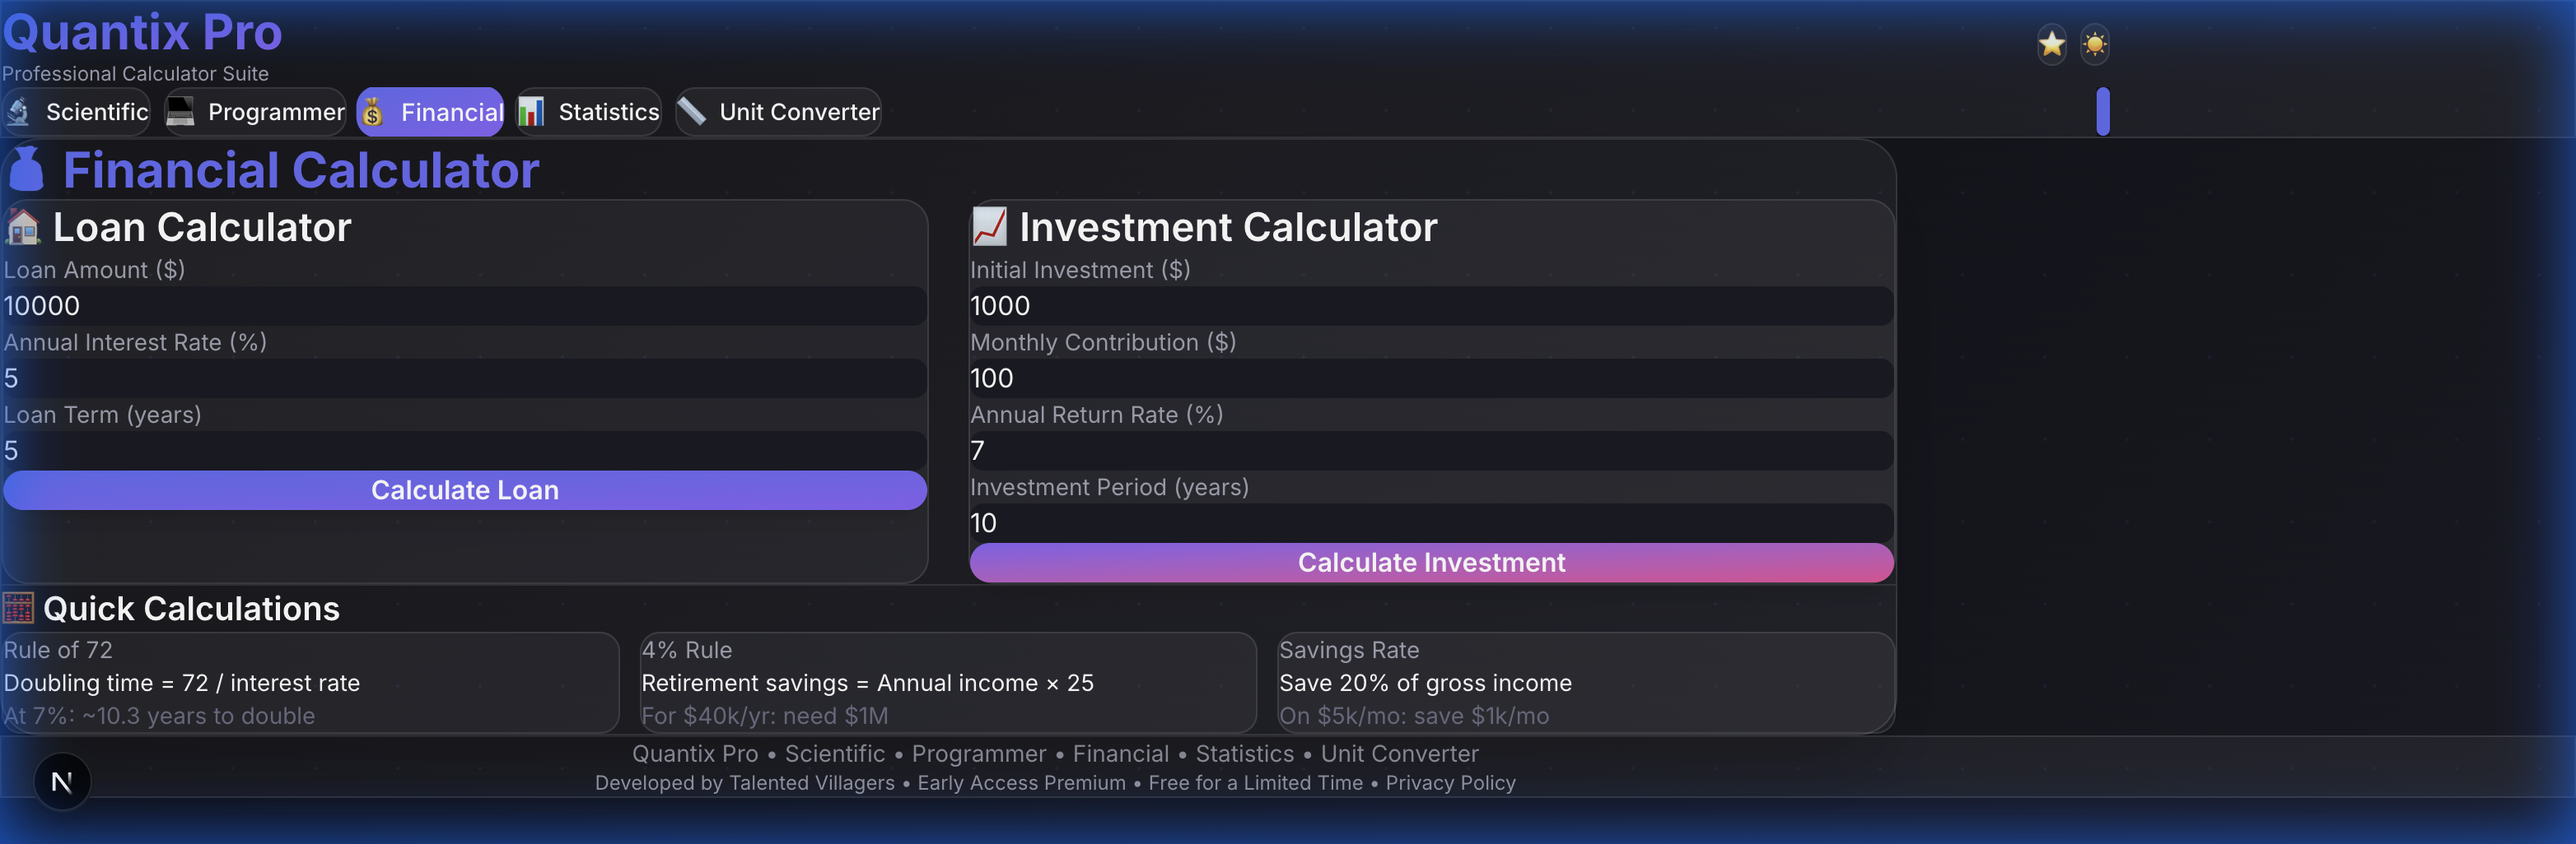
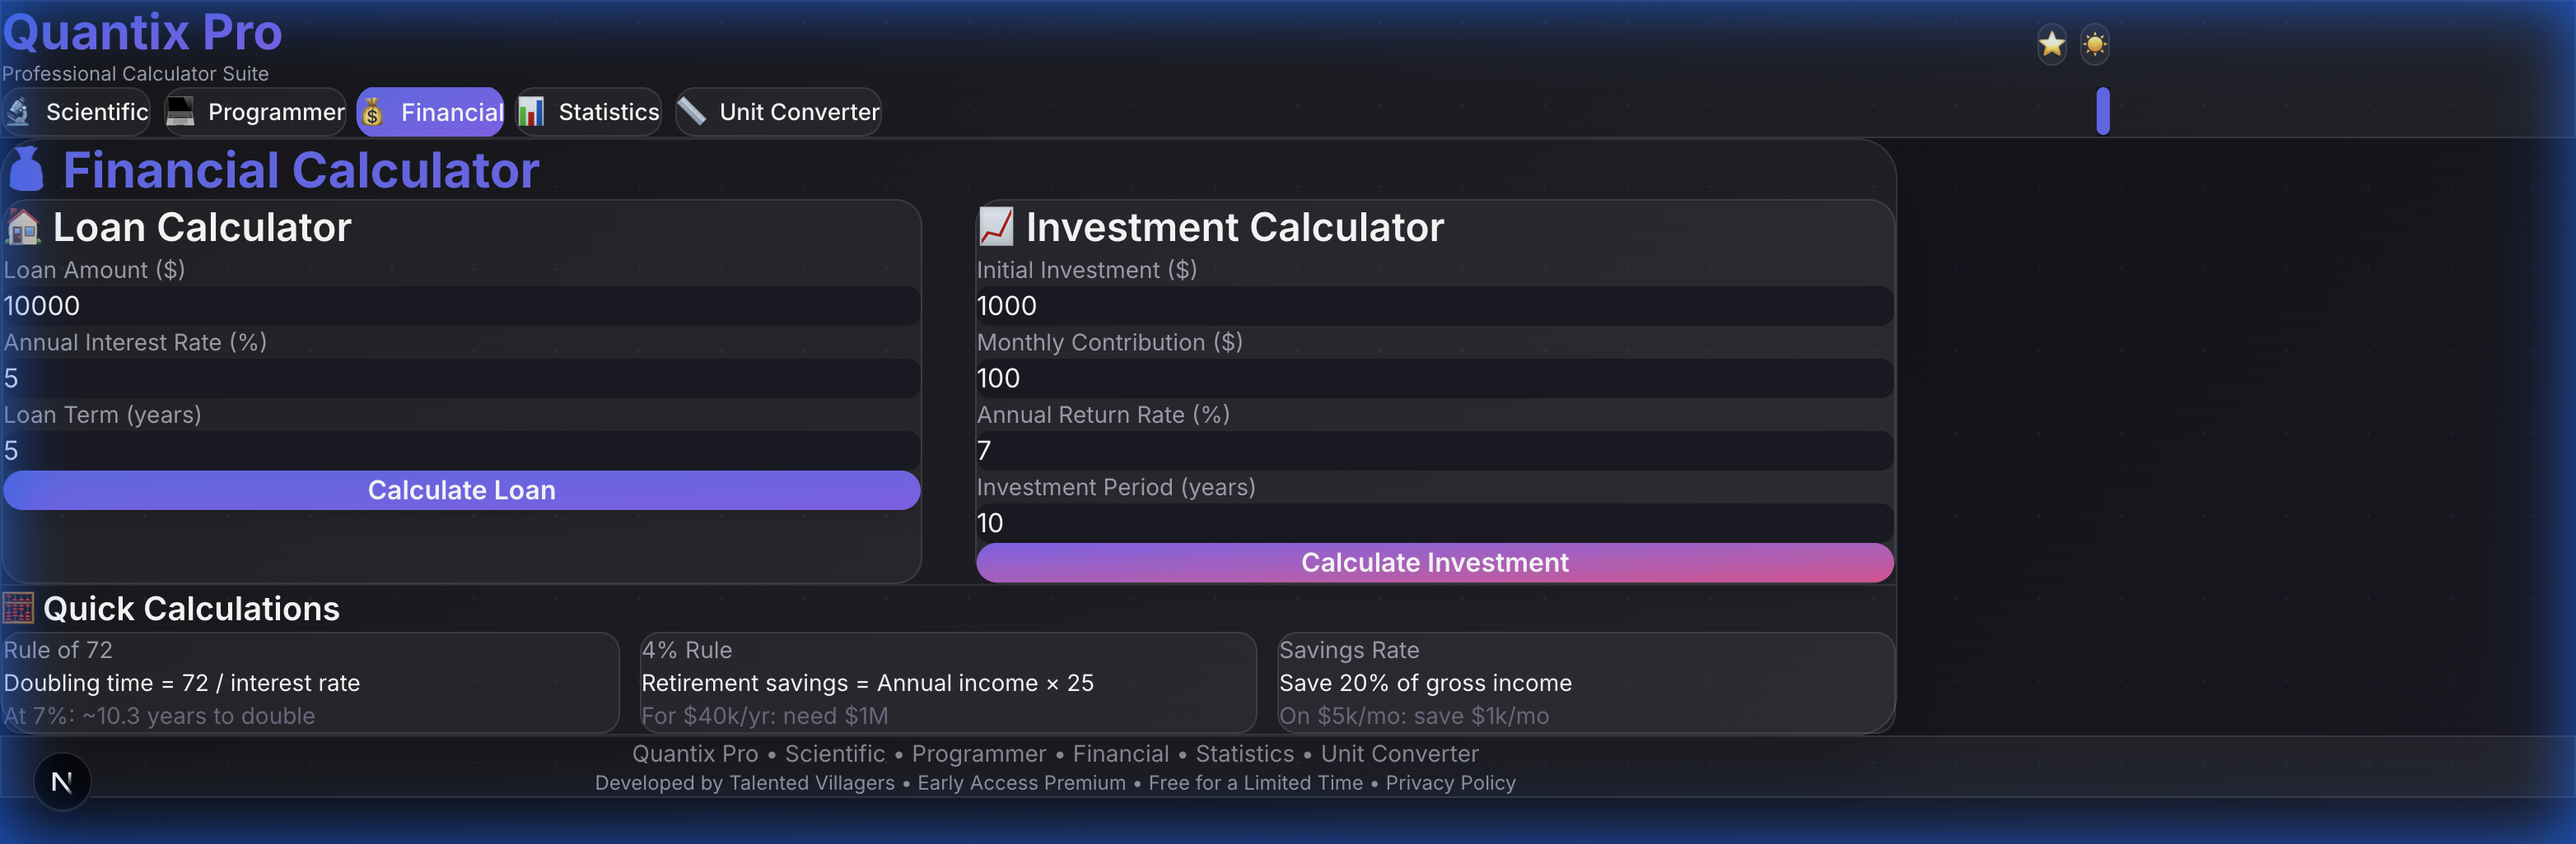
Enhance UI with increased padding and improved spacing for polished, premium look

diff --git a/components/ProgrammerCalculator.js b/components/ProgrammerCalculator.js
@@ -129,19 +129,19 @@ export default function ProgrammerCalculator() {
     const multiBase = getMultiBaseDisplay();
 
     return (
-        <div className="max-w-4xl mx-auto p-6">
-            <div className="glass rounded-3xl p-6 shadow-2xl animate-in">
+        <div className="max-w-4xl mx-auto p-8">
+            <div className="glass rounded-3xl p-8 shadow-2xl animate-in">
                 <h2 className="text-3xl font-bold gradient-text mb-6">💻 Programmer Calculator</h2>
 
                 {/* Mode Selector */}
-                <div className="grid grid-cols-4 gap-2 mb-6">
+                <div className="grid grid-cols-4 gap-3 mb-8">
                     {['DEC', 'HEX', 'BIN', 'OCT'].map(m => (
                         <button
                             key={m}
                             onClick={() => handleModeChange(m)}
                             className={`py-3 rounded-xl font-semibold transition-all ${mode === m
-                                    ? 'bg-gradient-to-br from-[#6366f1] to-[#8b5cf6] text-white shadow-lg'
-                                    : 'glass hover:bg-[var(--btn-number)]'
+                                ? 'bg-gradient-to-br from-[#6366f1] to-[#8b5cf6] text-white shadow-lg'
+                                : 'glass hover:bg-[var(--btn-number)]'
                                 }`}
                         >
                             {m}
@@ -150,7 +150,7 @@ export default function ProgrammerCalculator() {
                 </div>
 
                 {/* Multi-Base Display */}
-                <div className="glass rounded-2xl p-6 mb-6 space-y-3">
+                <div className="glass rounded-2xl p-6 mb-8 space-y-3">
                     <div className="text-right">
                         <div className="text-sm text-[var(--text-secondary)]">
                             {previousValue !== null && operation && `${previousValue} ${operation}`}
@@ -181,7 +181,7 @@ export default function ProgrammerCalculator() {
                 </div>
 
                 {/* Buttons */}
-                <div className="grid grid-cols-5 gap-2">
+                <div className="grid grid-cols-5 gap-3">
                     {/* Row 1: Bitwise Operations */}
                     <Button variant="function" onClick={() => handleOperation('AND')}>AND</Button>
                     <Button variant="function" onClick={() => handleOperation('OR')}>OR</Button>

diff --git a/components/Calculator.js b/components/Calculator.js
@@ -270,10 +270,10 @@ export default function Calculator() {
     }, [handleNumber, handleDecimal, handleOperation, handleEquals, handleBackspace, handlePercent]);
 
     return (
-        <div className="min-h-screen flex items-center justify-center p-4 relative z-10">
-            <div className="max-w-6xl w-full grid grid-cols-1 lg:grid-cols-3 gap-6">
+        <div className="min-h-screen flex items-center justify-center p-4 lg:p-8 relative z-10">
+            <div className="max-w-6xl w-full grid grid-cols-1 lg:grid-cols-3 gap-8">
                 {/* Main Calculator */}
-                <div className="lg:col-span-2 glass rounded-3xl p-6 shadow-2xl animate-in">
+                <div className="lg:col-span-2 glass rounded-3xl p-8 shadow-2xl animate-in">
                     {/* Header */}
                     <div className="mb-6 flex items-center justify-between">
                         <h1 className="text-3xl font-bold gradient-text">Scientific Calculator</h1>
@@ -315,7 +315,7 @@ export default function Calculator() {
                     )}
 
                     {/* Main Buttons Grid */}
-                    <div className="grid grid-cols-5 gap-3">
+                    <div className="grid grid-cols-5 gap-4">
                         {/* Row 1: Memory & Clear */}
                         <Button variant="function" onClick={handleMemoryClear}>MC</Button>
                         <Button variant="function" onClick={handleMemoryRecall}>MR</Button>
@@ -386,7 +386,7 @@ export default function Calculator() {
                 </div>
 
                 {/* History Panel */}
-                <div className="glass rounded-3xl p-6 shadow-2xl animate-in lg:block" style={{ animationDelay: '0.1s' }}>
+                <div className="glass rounded-3xl p-8 shadow-2xl animate-in lg:block" style={{ animationDelay: '0.1s' }}>
                     <h2 className="text-2xl font-bold gradient-text mb-4">History</h2>
                     <div className="space-y-2 max-h-[600px] overflow-y-auto">
                         {history.length === 0 ? (

diff --git a/components/FinancialCalculator.js b/components/FinancialCalculator.js
@@ -113,13 +113,13 @@ export default function FinancialCalculator() {
     };
 
     return (
-        <div className="max-w-6xl mx-auto p-6">
-            <div className="glass rounded-3xl p-6 shadow-2xl animate-in">
-                <h2 className="text-3xl font-bold gradient-text mb-6">💰 Financial Calculator</h2>
+        <div className="max-w-6xl mx-auto p-8">
+            <div className="glass rounded-3xl p-8 shadow-2xl animate-in">
+                <h2 className="text-3xl font-bold gradient-text mb-8">💰 Financial Calculator</h2>
 
-                <div className="grid lg:grid-cols-2 gap-6">
+                <div className="grid lg:grid-cols-2 gap-8">
                     {/* Loan Calculator */}
-                    <div className="glass rounded-2xl p-6">
+                    <div className="glass rounded-2xl p-8">
                         <h3 className="text-2xl font-semibold mb-4">🏠 Loan Calculator</h3>
 
                         <div className="space-y-4">
@@ -208,7 +208,7 @@ export default function FinancialCalculator() {
                     </div>
 
                     {/* Investment Calculator */}
-                    <div className="glass rounded-2xl p-6">
+                    <div className="glass rounded-2xl p-8">
                         <h3 className="text-2xl font-semibold mb-4">📈 Investment Calculator</h3>
 
                         <div className="space-y-4">

diff --git a/components/StatisticsCalculator.js b/components/StatisticsCalculator.js
@@ -125,12 +125,12 @@ export default function StatisticsCalculator() {
     );
 
     return (
-        <div className="max-w-6xl mx-auto p-6">
-            <div className="glass rounded-3xl p-6 shadow-2xl animate-in">
-                <h2 className="text-3xl font-bold gradient-text mb-6">📊 Statistics Calculator</h2>
+        <div className="max-w-6xl mx-auto p-8">
+            <div className="glass rounded-3xl p-8 shadow-2xl animate-in">
+                <h2 className="text-3xl font-bold gradient-text mb-8">📊 Statistics Calculator</h2>
 
                 {/* Data Input */}
-                <div className="mb-6">
+                <div className="mb-8">
                     <h3 className="text-xl font-semibold mb-3">Enter Data</h3>
                     <div className="glass rounded-2xl p-4">
                         <label className="block text-sm text-[var(--text-secondary)] mb-2">
@@ -153,7 +153,7 @@ export default function StatisticsCalculator() {
 
                 {/* Results */}
                 {results && (
-                    <div className="space-y-6 mb-6">
+                    <div className="space-y-6 mb-8">
                         <h3 className="text-xl font-semibold">Results</h3>
 
                         {/* Basic Stats */}

diff --git a/components/UnitConverter.js b/components/UnitConverter.js
@@ -264,12 +264,12 @@ export default function UnitConverter() {
     };
 
     return (
-        <div className="max-w-4xl mx-auto p-6">
-            <div className="glass rounded-3xl p-6 shadow-2xl animate-in">
-                <h2 className="text-3xl font-bold gradient-text mb-6">Unit Converter</h2>
+        <div className="max-w-4xl mx-auto p-8">
+            <div className="glass rounded-3xl p-8 shadow-2xl animate-in">
+                <h2 className="text-3xl font-bold gradient-text mb-8">Unit Converter</h2>
 
                 {/* Category Selector */}
-                <div className="grid grid-cols-2 sm:grid-cols-5 gap-2 mb-6">
+                <div className="grid grid-cols-2 sm:grid-cols-5 gap-3 mb-8">
                     {Object.entries(UNITS).map(([key, cat]) => (
                         <button
                             key={key}

diff --git a/components/MultiModeCalculator.js b/components/MultiModeCalculator.js
@@ -98,7 +98,7 @@ export default function MultiModeCalculator() {
             </div>
 
             {/* Calculator Content */}
-            <div className="relative z-10">
+            <div className="relative z-10 max-w-7xl mx-auto px-4 py-12">
                 <ActiveComponent />
             </div>
 
